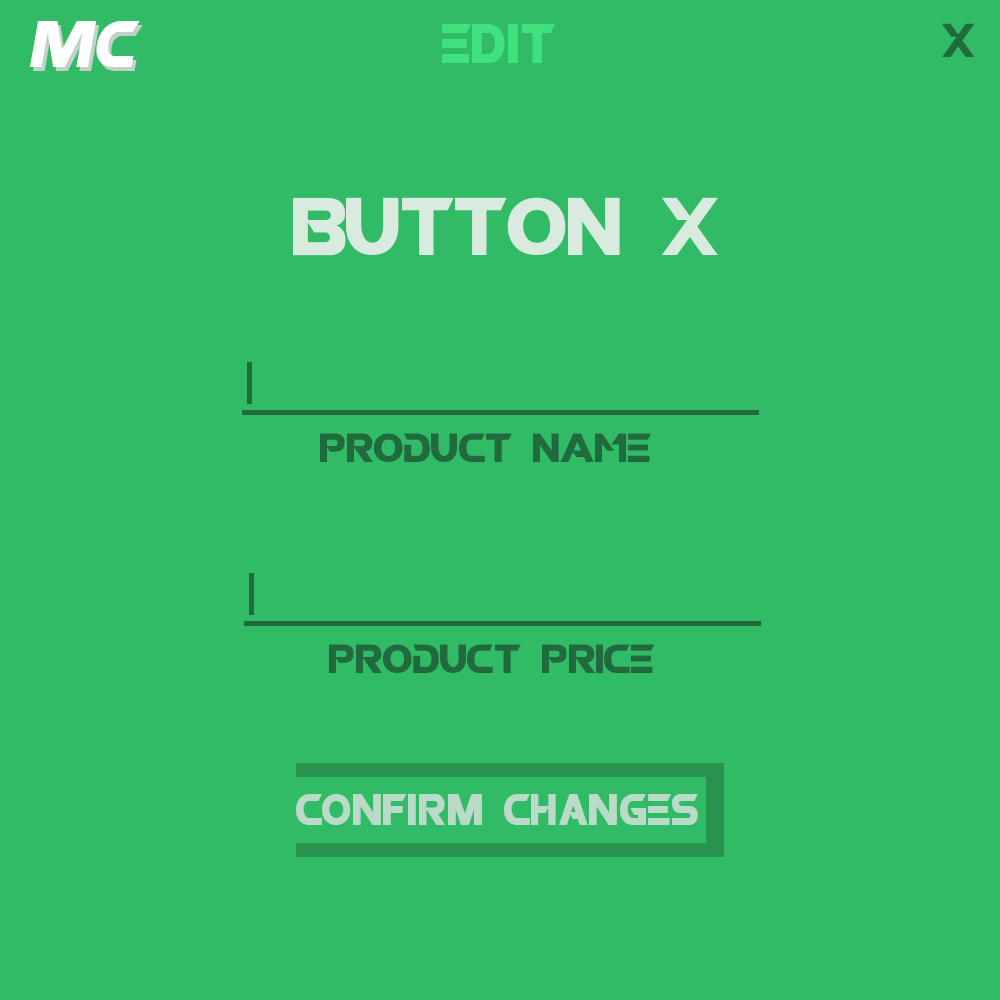
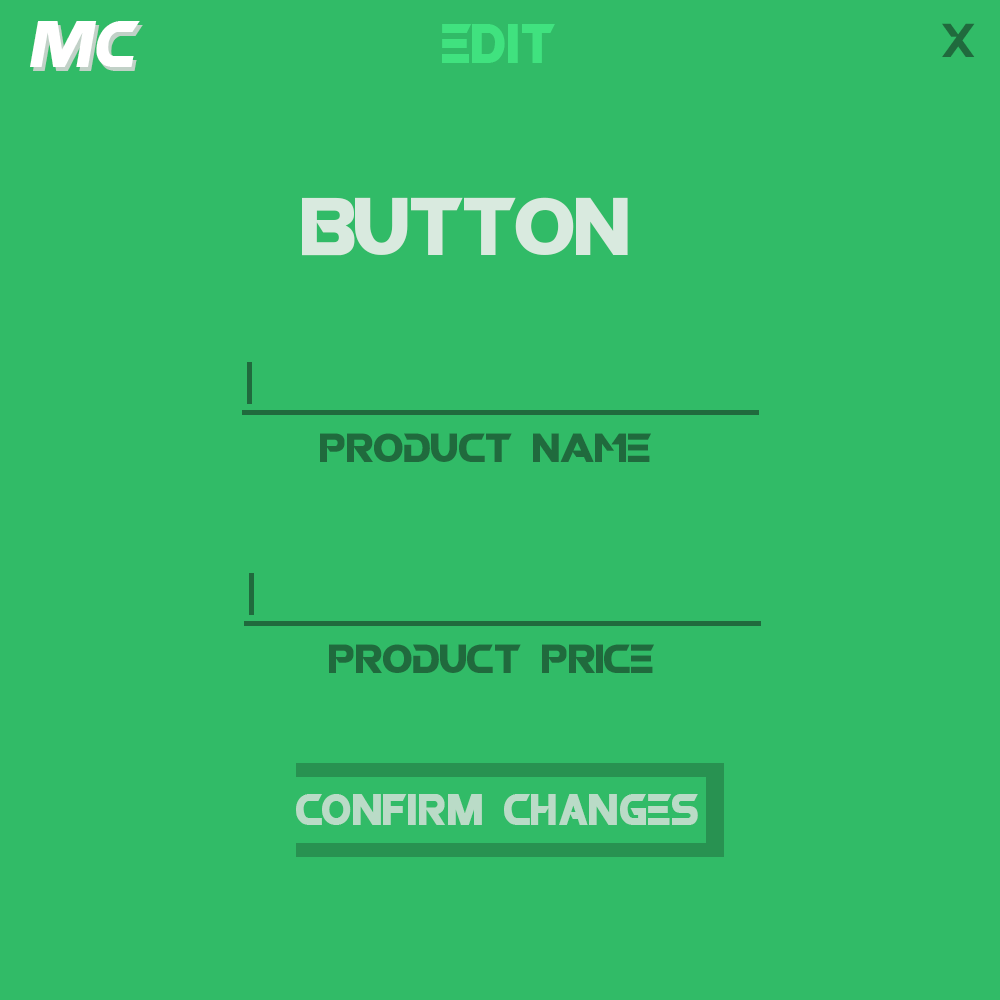
images

Changed region(s): [[0.279, 0.186, 0.713, 0.279]]

diff --git a/src/main/Panel.java b/src/main/Panel.java
@@ -10,8 +10,10 @@ import java.awt.image.BufferedImage;
 import java.io.File;
 import java.io.IOException;
 import java.io.InputStream;
+import java.net.URL;
 import java.util.Scanner;
 
+import javax.imageio.ImageIO;
 import javax.swing.JPanel;
 
 
@@ -52,6 +54,36 @@ public final class Panel extends JPanel implements MouseListener, MouseMotionLis
 		InputStream is = getClass().getResourceAsStream("/Screens/ROBO.ttf");
 		tttFont = Font.createFont(Font.TRUETYPE_FONT, is);
 		
+		URL fileURL;
+		
+		fileURL = getClass().getResource("/Screens/EDIT1.png");
+		edit1 = ImageIO.read(fileURL);
+		
+		fileURL = getClass().getResource("/Screens/EDIT2.png");
+		edit2 = ImageIO.read(fileURL);
+		
+		fileURL = getClass().getResource("/Screens/SETUP1.png");
+		setup1 = ImageIO.read(fileURL);
+		
+		fileURL = getClass().getResource("/Screens/SETUP2.png");
+		setup2 = ImageIO.read(fileURL);
+		
+		fileURL = getClass().getResource("/Screens/setup3.png");
+		setup3 = ImageIO.read(fileURL);
+		
+		fileURL = getClass().getResource("/Screens/START.png");
+		start = ImageIO.read(fileURL);
+		
+		fileURL = getClass().getResource("/Screens/use2.png");
+		use2 = ImageIO.read(fileURL);
+		
+		fileURL = getClass().getResource("/Screens/USE3.png");
+		use3 = ImageIO.read(fileURL);
+		
+		fileURL = getClass().getResource("/Screens/use4.png");
+		use4 = ImageIO.read(fileURL);
+		
+		
 		sc.close();
 	}
 
@@ -59,41 +91,39 @@ public final class Panel extends JPanel implements MouseListener, MouseMotionLis
 		switch (state) {
 		// company name
 		case SetupNAME:
-			
+			g.drawImage(setup1, 0, 0, null);
 			break;
 		// how many buttons
 		case SetupSIZE:
-			
-			
+			g.drawImage(setup2, 0, 0, null);
 			break;
 		// input button info
 		case SetupBUTTON:
-			
-			
-			
+			g.drawImage(setup3, 0, 0, null);
 			break;
+		// select to open cash machine or edit the cash machine
 		case StartSCREEN:
-
+			g.drawImage(start, 0, 0, null);
 			break;
+		// input customer name and number
 		case StartORDER:
-			
-			
+			g.drawImage(use2, 0, 0, null);
 			break;
+		// screen with buttons to start order
 		case ORDER:
-			
-			
+			g.drawImage(use3, 0, 0, null);
 			break;
+		// screen showing total of order transaction
 		case OrderSUMMARY:
-				
-				
+			g.drawImage(use4, 0, 0, null);
 			break;
+		// click which product button you want to edit
 		case EditSELECT:
-			
-			
+			g.drawImage(edit1, 0, 0, null);
 			break;
+		// change name and price of particular button selected
 		case EditBUTTON:
-			
-			
+			g.drawImage(edit2, 0, 0, null);
 			break;
 		}
 	}
@@ -119,12 +149,12 @@ public final class Panel extends JPanel implements MouseListener, MouseMotionLis
 	}	
 	
 	// accessor for state
-	public static GameState getGameState() {
+	public static State getGameState() {
 		return Panel.state;
 	}
 	
 	// mutator for state
-	public static void setGameState(GameState newState) {
+	public static void setGameState(State newState) {
 		Panel.state = newState;
 	}
 

diff --git a/src/main/Main.java b/src/main/Main.java
@@ -10,7 +10,7 @@ import javax.swing.JFrame;
 public class Main {
 		// declare and instantiate a JFrame
 		static JFrame window = new JFrame("Name");
-		private static short WINDOW_WIDTH = 600, WINDOW_HEIGHT = 600;	
+		private static short WINDOW_WIDTH = 800, WINDOW_HEIGHT = 800;	
 		
 		public static void main(String[] args) throws IOException, InterruptedException, FontFormatException {
 			
